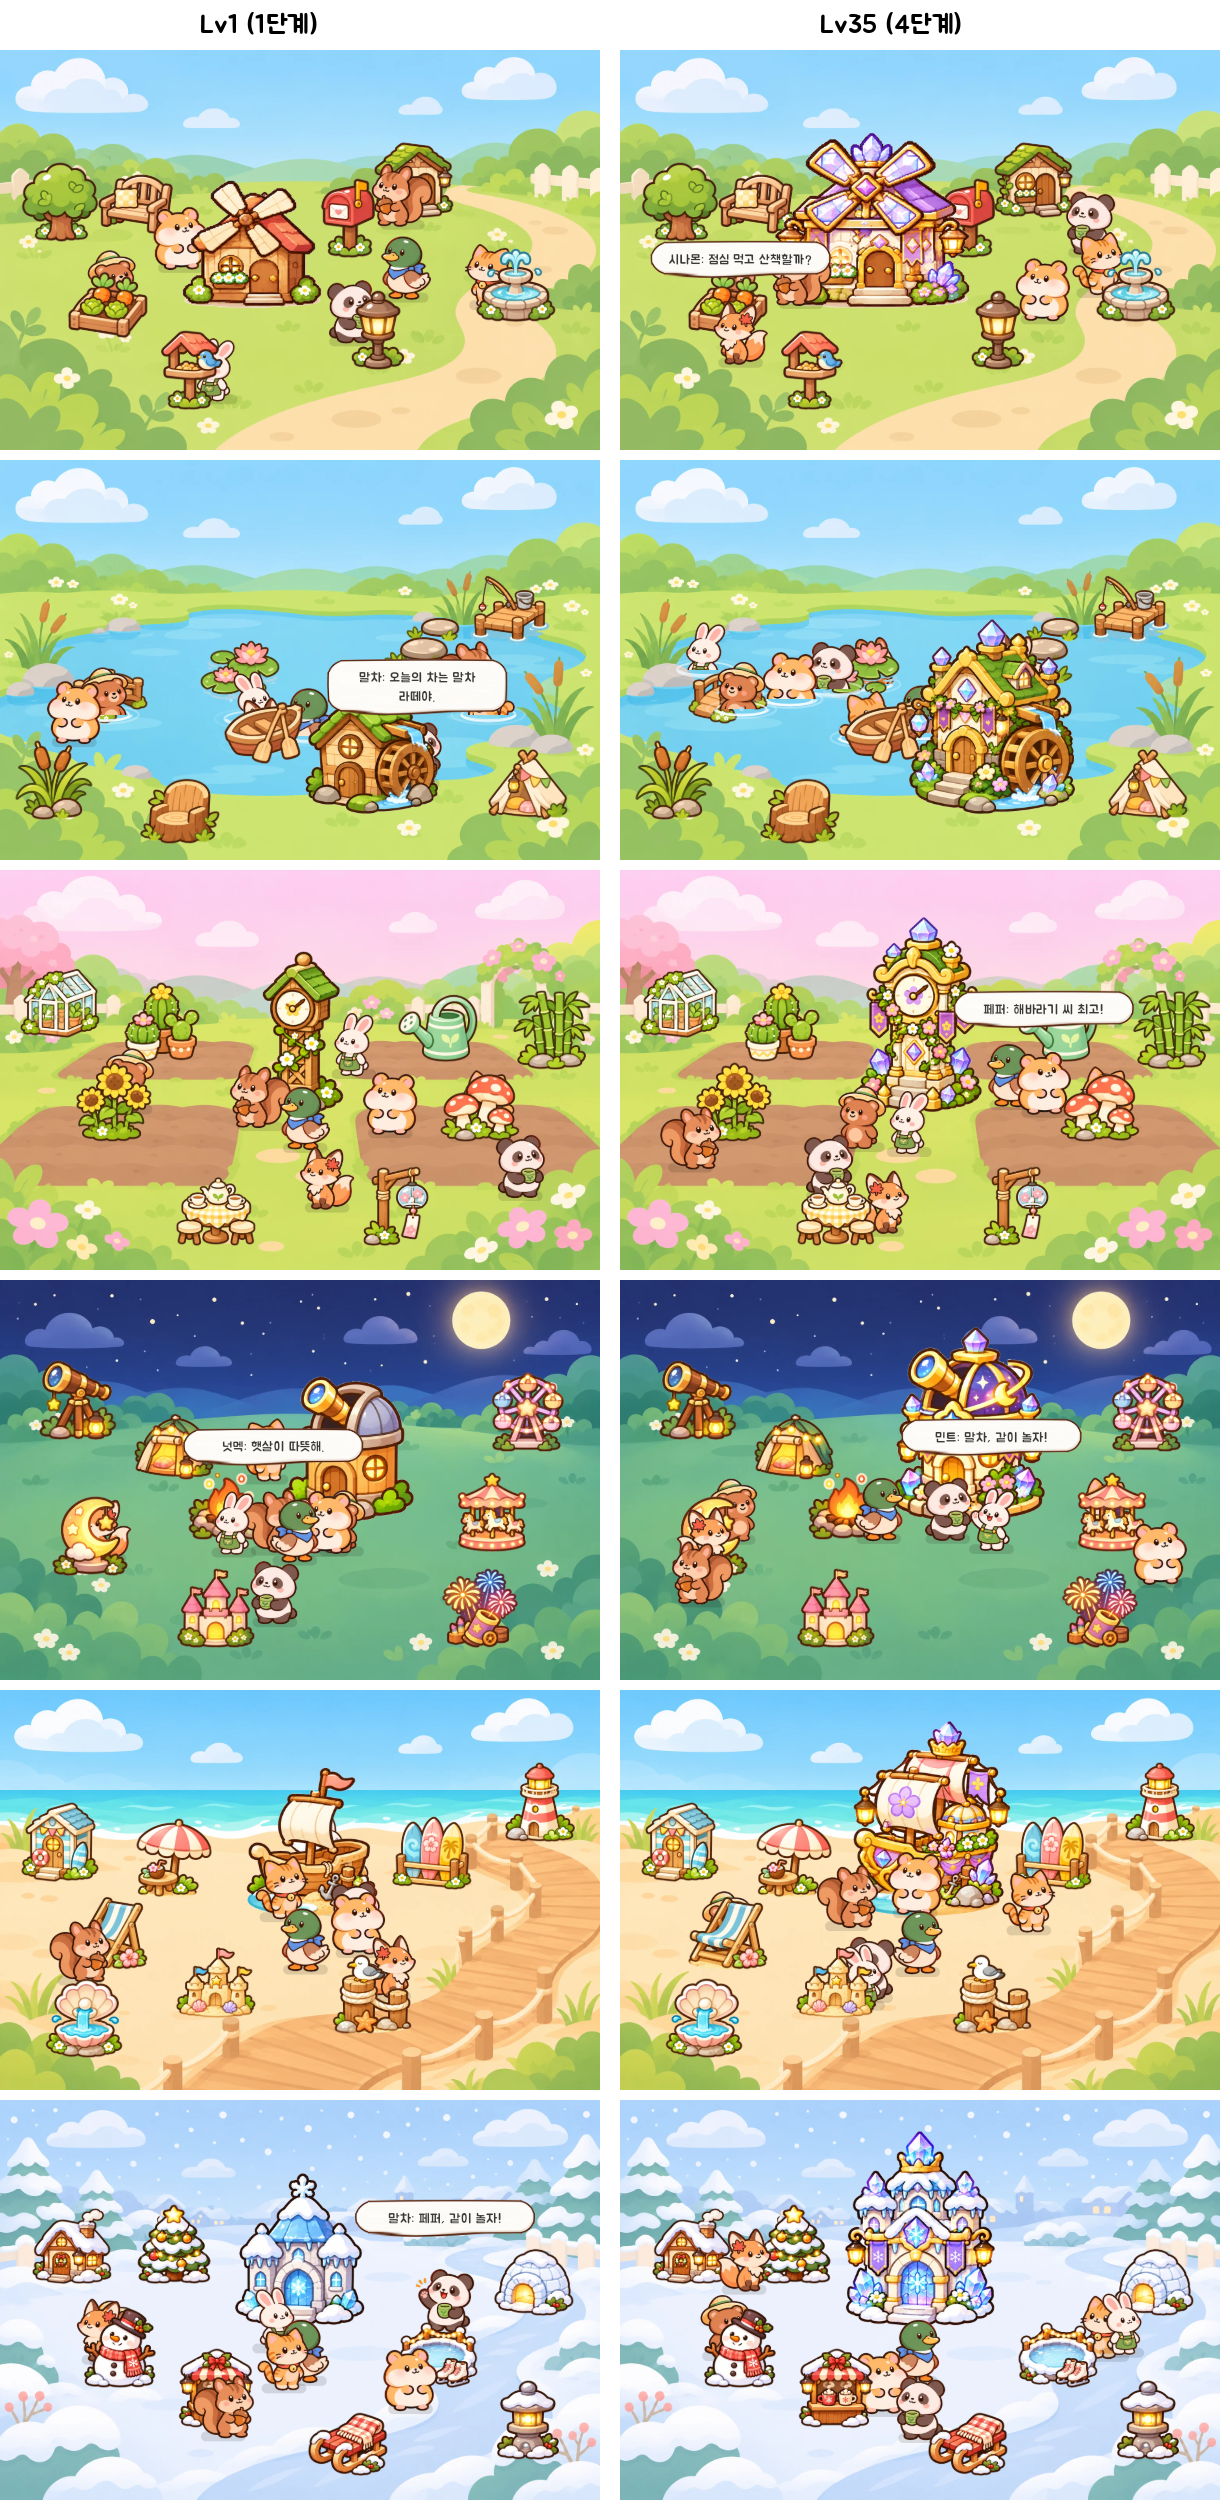
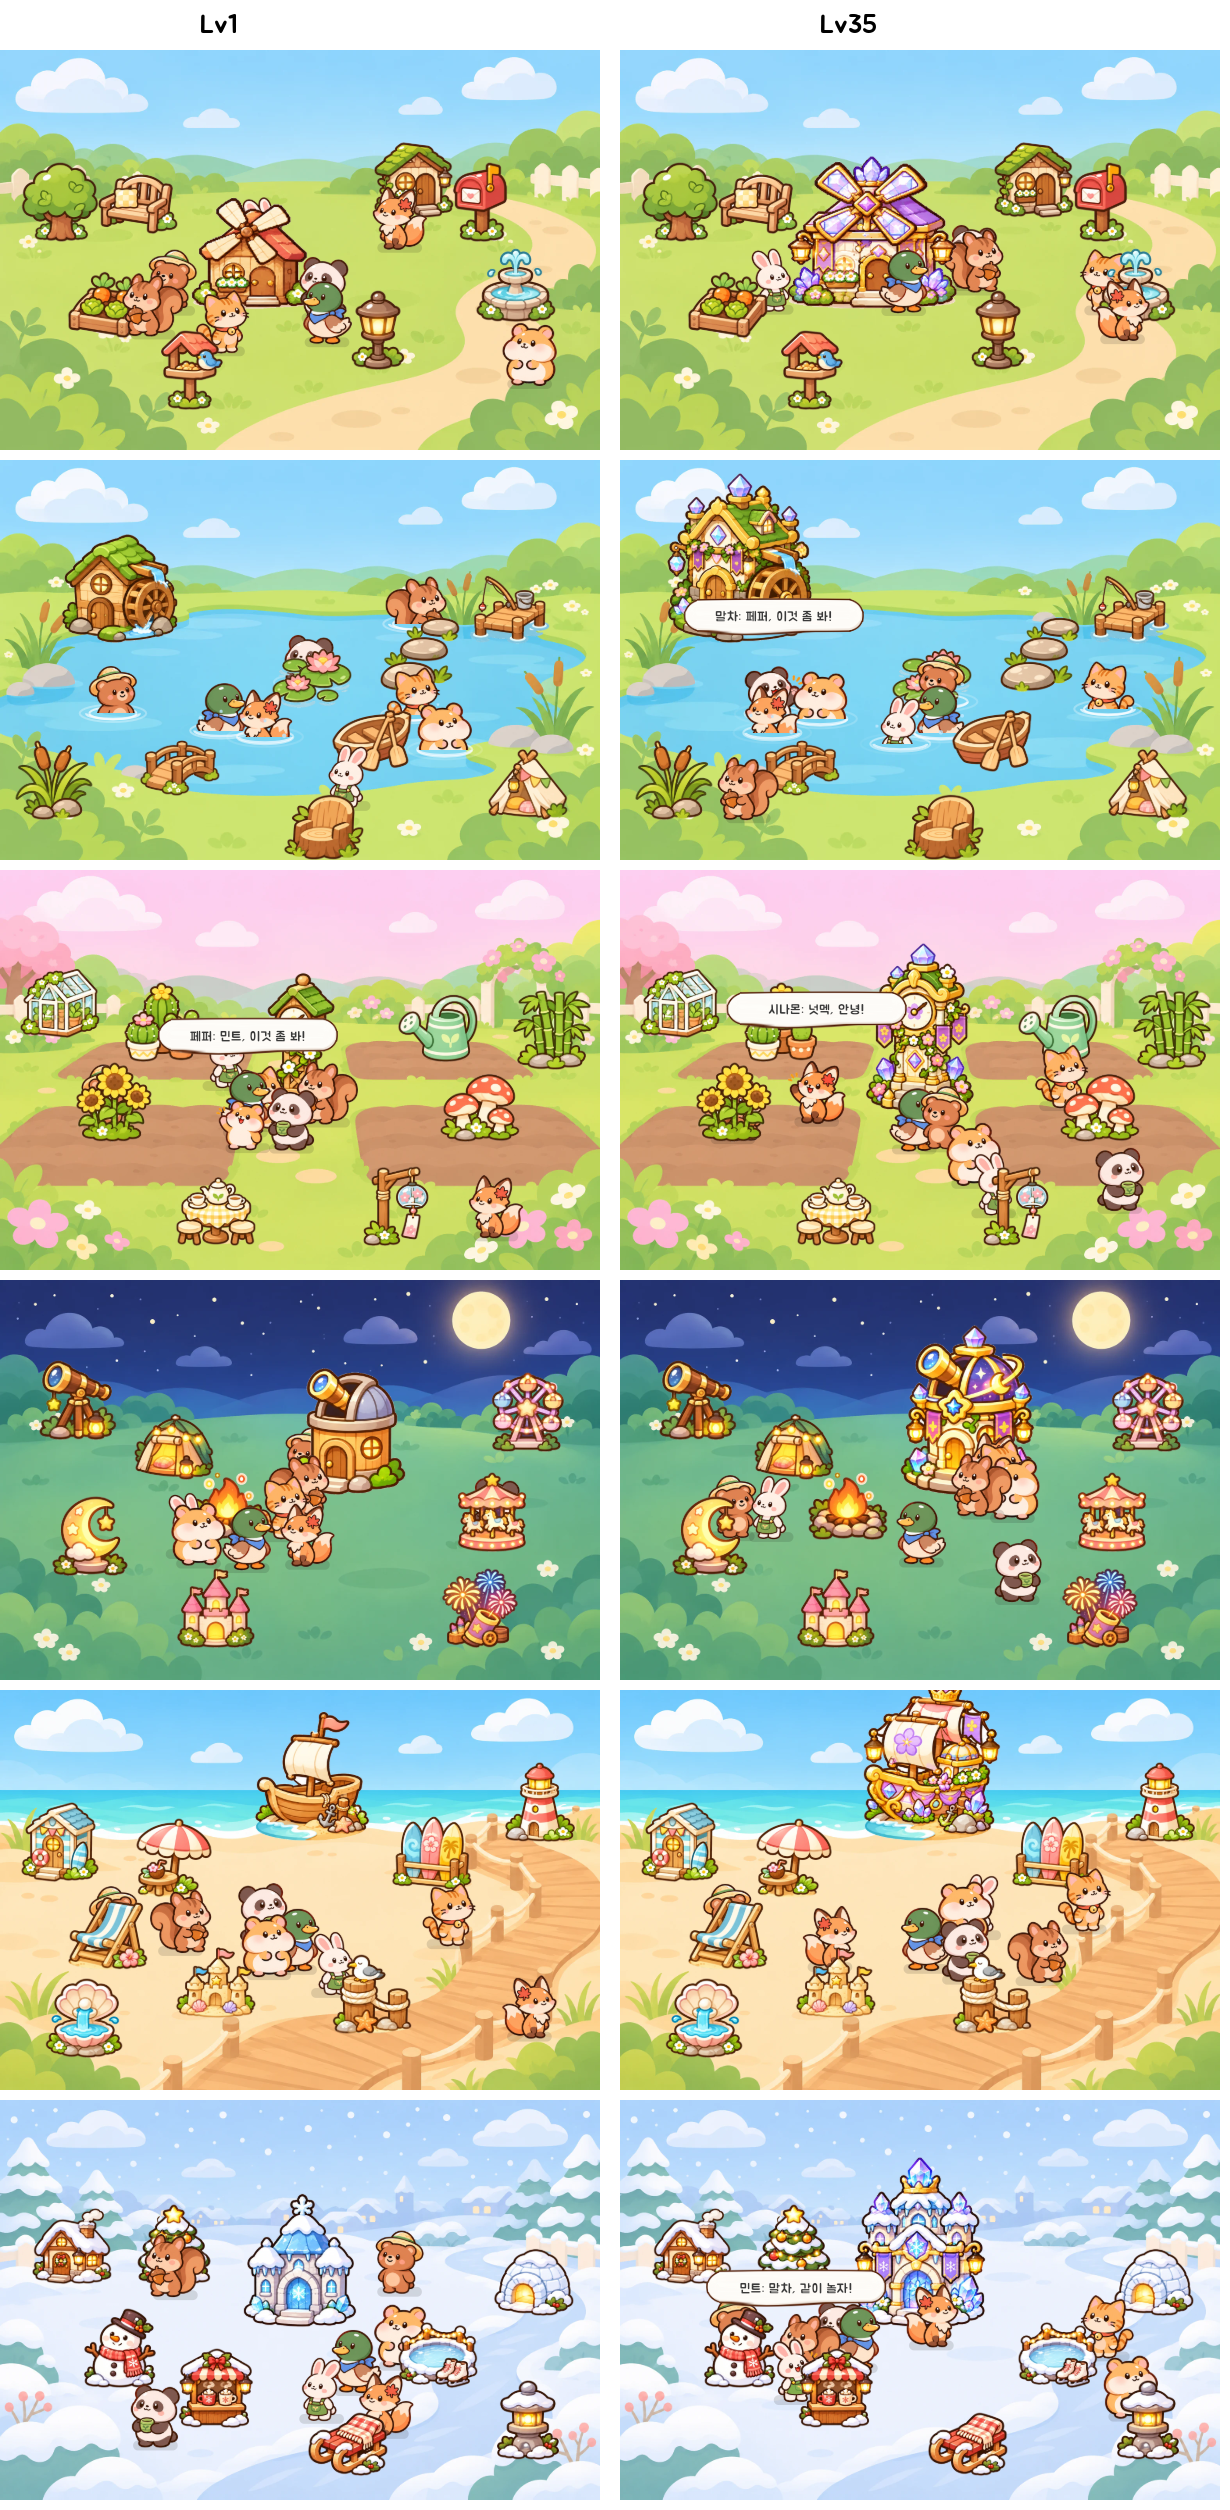
Landmark placement feedback: smaller landmarks (2.0x decor), yard mailbox right of the house, pond water mill top-left on the shore, observatory higher, ship base on the water
Claude-Session: https://claude.ai/code/session_011jC4ZDqrEaYqEhudpbFCaM

diff --git a/lib/game/config.dart b/lib/game/config.dart
@@ -870,7 +870,7 @@ class Garden {
       [
         DecorDef('big_tree', '🌳', 0.10, 0.38),
         DecorDef('bench', '🪑', 0.23, 0.36),
-        DecorDef('mailbox', '📮', 0.61, 0.42),
+        DecorDef('mailbox', '📮', 0.80, 0.38),
         DecorDef('veggie_patch', '🥕', 0.18, 0.62, bringsFriend: 'dubu'),
         DecorDef('lantern', '🏮', 0.63, 0.70),
         DecorDef('bird_feeder', '🐦', 0.32, 0.80),
@@ -887,18 +887,18 @@ class Garden {
       0xFF9CD3B0,
       [
         DecorDef('stepping_stones', '🪨', 0.70, 0.48),
-        DecorDef('water_lily', '🪷', 0.40, 0.50, bringsFriend: 'kwak'),
+        DecorDef('water_lily', '🪷', 0.52, 0.52, bringsFriend: 'kwak'),
         DecorDef('fishing_spot', '🎣', 0.85, 0.36),
-        DecorDef('rowboat', '🛶', 0.44, 0.66),
+        DecorDef('rowboat', '🛶', 0.62, 0.68),
         DecorDef('reeds', '🌾', 0.09, 0.80),
-        DecorDef('log_chair', '🪵', 0.30, 0.86, bringsFriend: 'nabi'),
+        DecorDef('log_chair', '🪵', 0.54, 0.90, bringsFriend: 'nabi'),
         DecorDef('tent', '🏕', 0.88, 0.80),
-        DecorDef('wooden_bridge', '🌉', 0.18, 0.56),
+        DecorDef('wooden_bridge', '🌉', 0.30, 0.74),
       ],
       walk: [WalkZone(0.06, 0.44, 0.94, 0.94)],
       water: [WaterZone(0.52, 0.58, 0.46, 0.21)],
-      landmarkX: 0.62,
-      landmarkY: 0.90,
+      landmarkX: 0.20,
+      landmarkY: 0.47,
     ),
     AreaDef(
       'greenhouse',
@@ -934,7 +934,7 @@ class Garden {
         DecorDef('fireworks', '🎆', 0.80, 0.82),
       ],
       landmarkX: 0.58,
-      landmarkY: 0.62,
+      landmarkY: 0.55,
     ),
     // 5 · 6구역: 배경 · 장식 · 친구 그림이 모두 들어와야 열린다 (그 전에는 1~4구역 순환)
     AreaDef(
@@ -953,7 +953,7 @@ class Garden {
         DecorDef('seagull_post', '🪵', 0.62, 0.76),
       ],
       landmarkX: 0.52,
-      landmarkY: 0.58,
+      landmarkY: 0.39,
     ),
     AreaDef(
       'snow_village',
@@ -1105,7 +1105,7 @@ class Landmarks {
   static double charm(int lv) => 0.004 * lv + 0.03 * (lv ~/ 10);
 
   /// 세운 랜드마크 높이 (장식 크기 대비).
-  static const double scale = 2.3;
+  static const double scale = 2.0;
 }
 
 // ------------------------------------------------------------------ 꾸밈 점수 · 세트 효과 (D-046)
